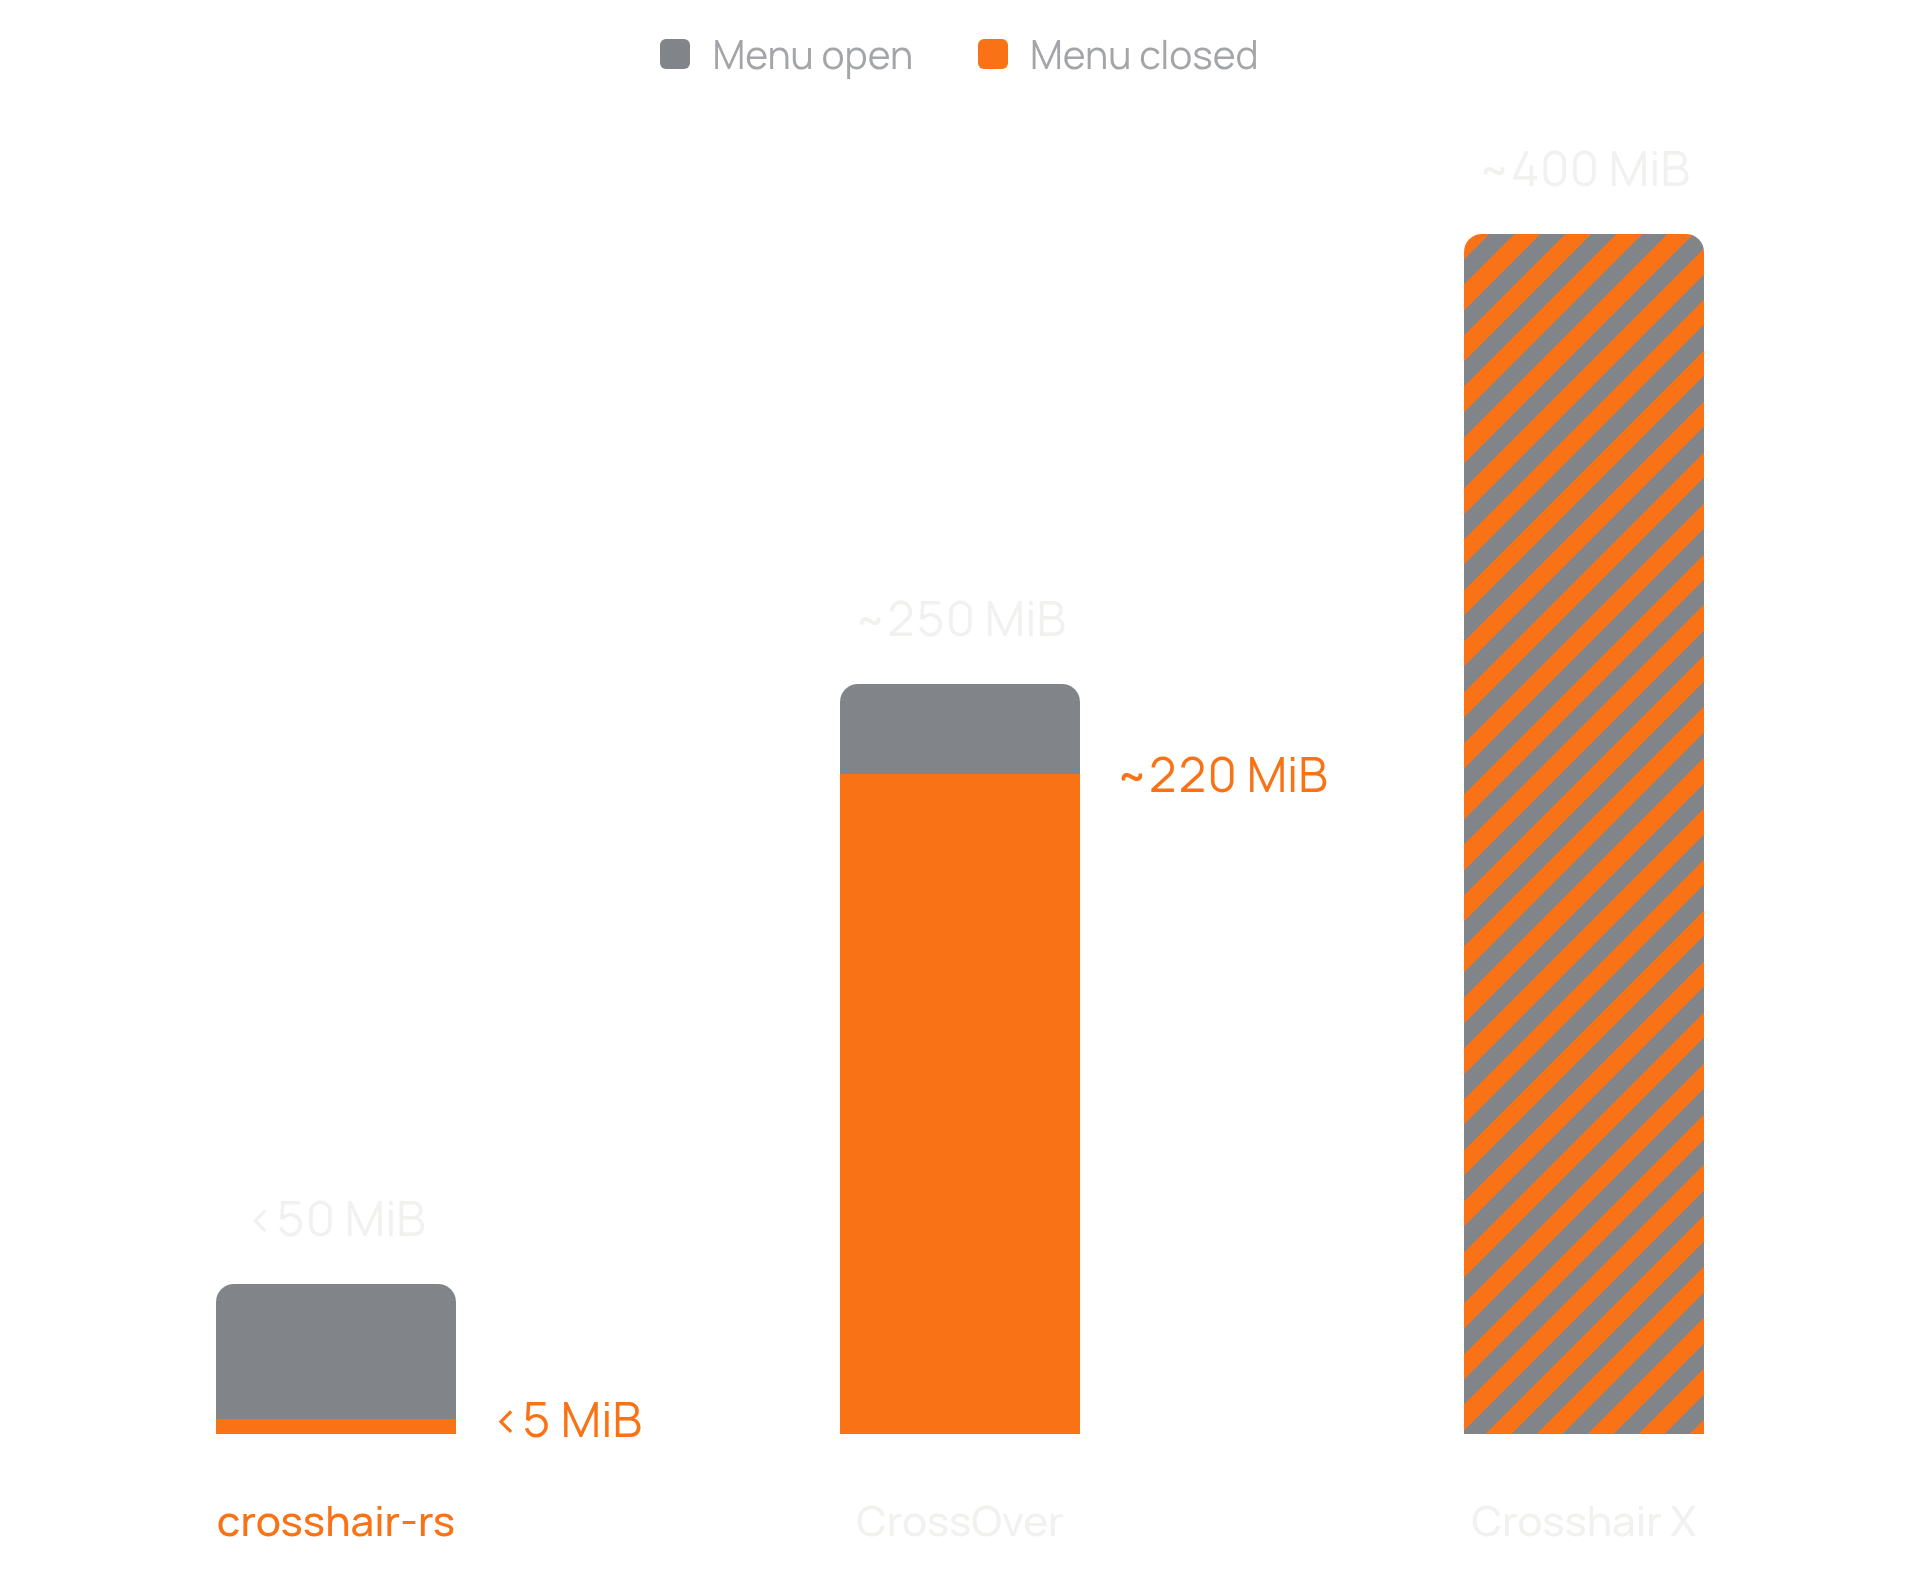
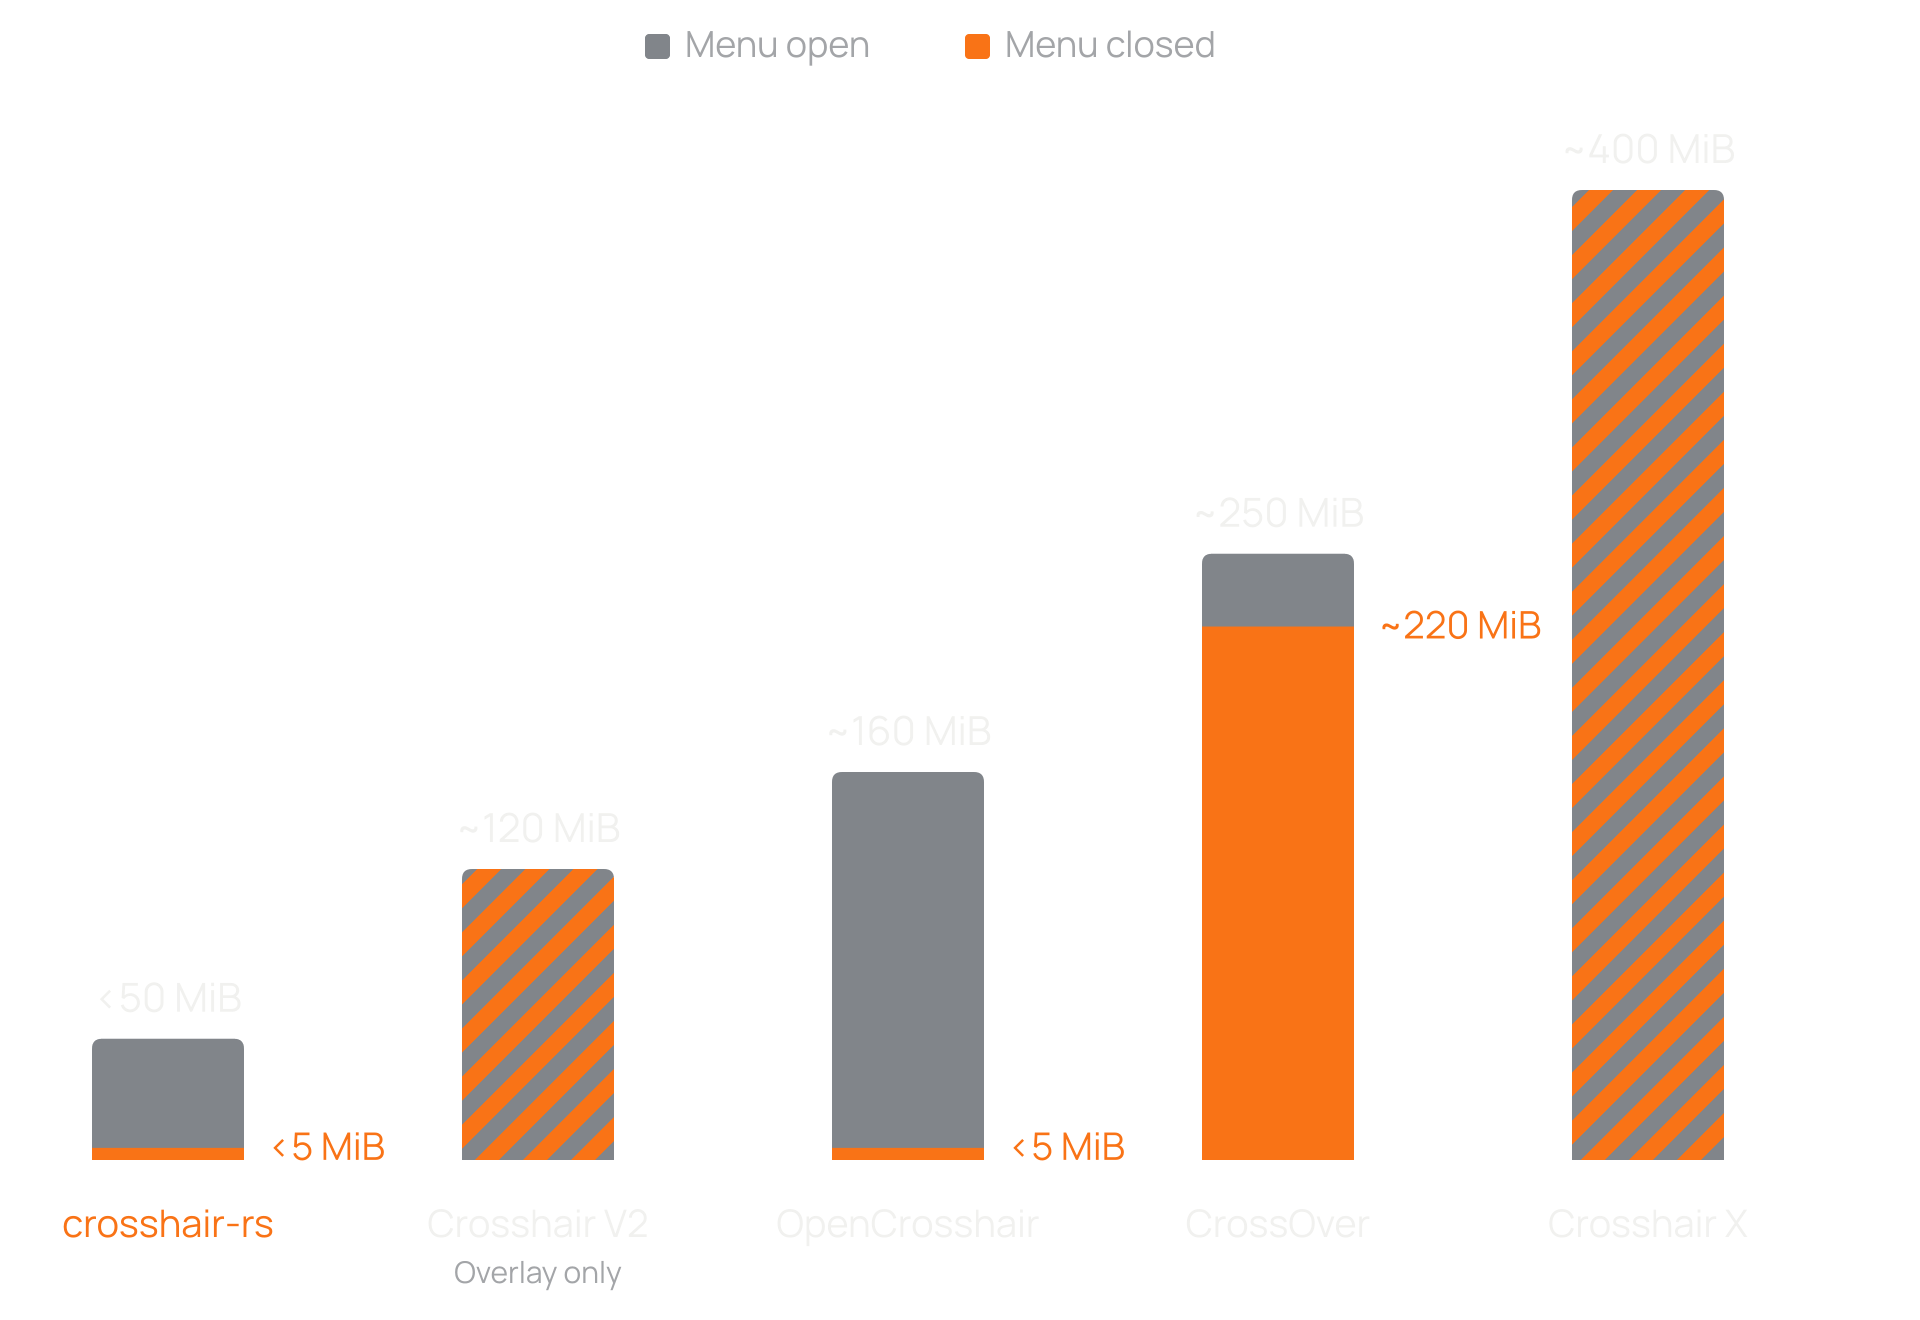
docs(readme): expand the RAM comparison graphic

diff --git a/README.md b/README.md
@@ -27,7 +27,10 @@ Fullscreen compatibility depends on Xbox Game Bar and the game.
 
 ## RAM usage
 
-<img src=".github/assets/ram-comparison.png" width="720" alt="Approximate RAM usage with the menu open and closed. crosshair-rs uses under 50 MiB open and under 5 MiB closed. CrossOver uses about 250 MiB open and 220 MiB closed. Crosshair X uses about 400 MiB in both states.">
+<img src=".github/assets/ram-comparison.png" width="720" alt="Approximate RAM usage with the menu open and closed. crosshair-rs uses under 50 MiB open and under 5 MiB closed. Crosshair V2 uses about 120 MiB with the overlay only. OpenCrosshair uses about 160 MiB open and under 5 MiB closed. CrossOver uses about 250 MiB open and 220 MiB closed. Crosshair X uses about 400 MiB in both states.">
+
+Crosshair V2 and OpenCrosshair use Windows private working set samples. The
+earlier readings use an unrecorded method.
 
 ## Contributing
 
